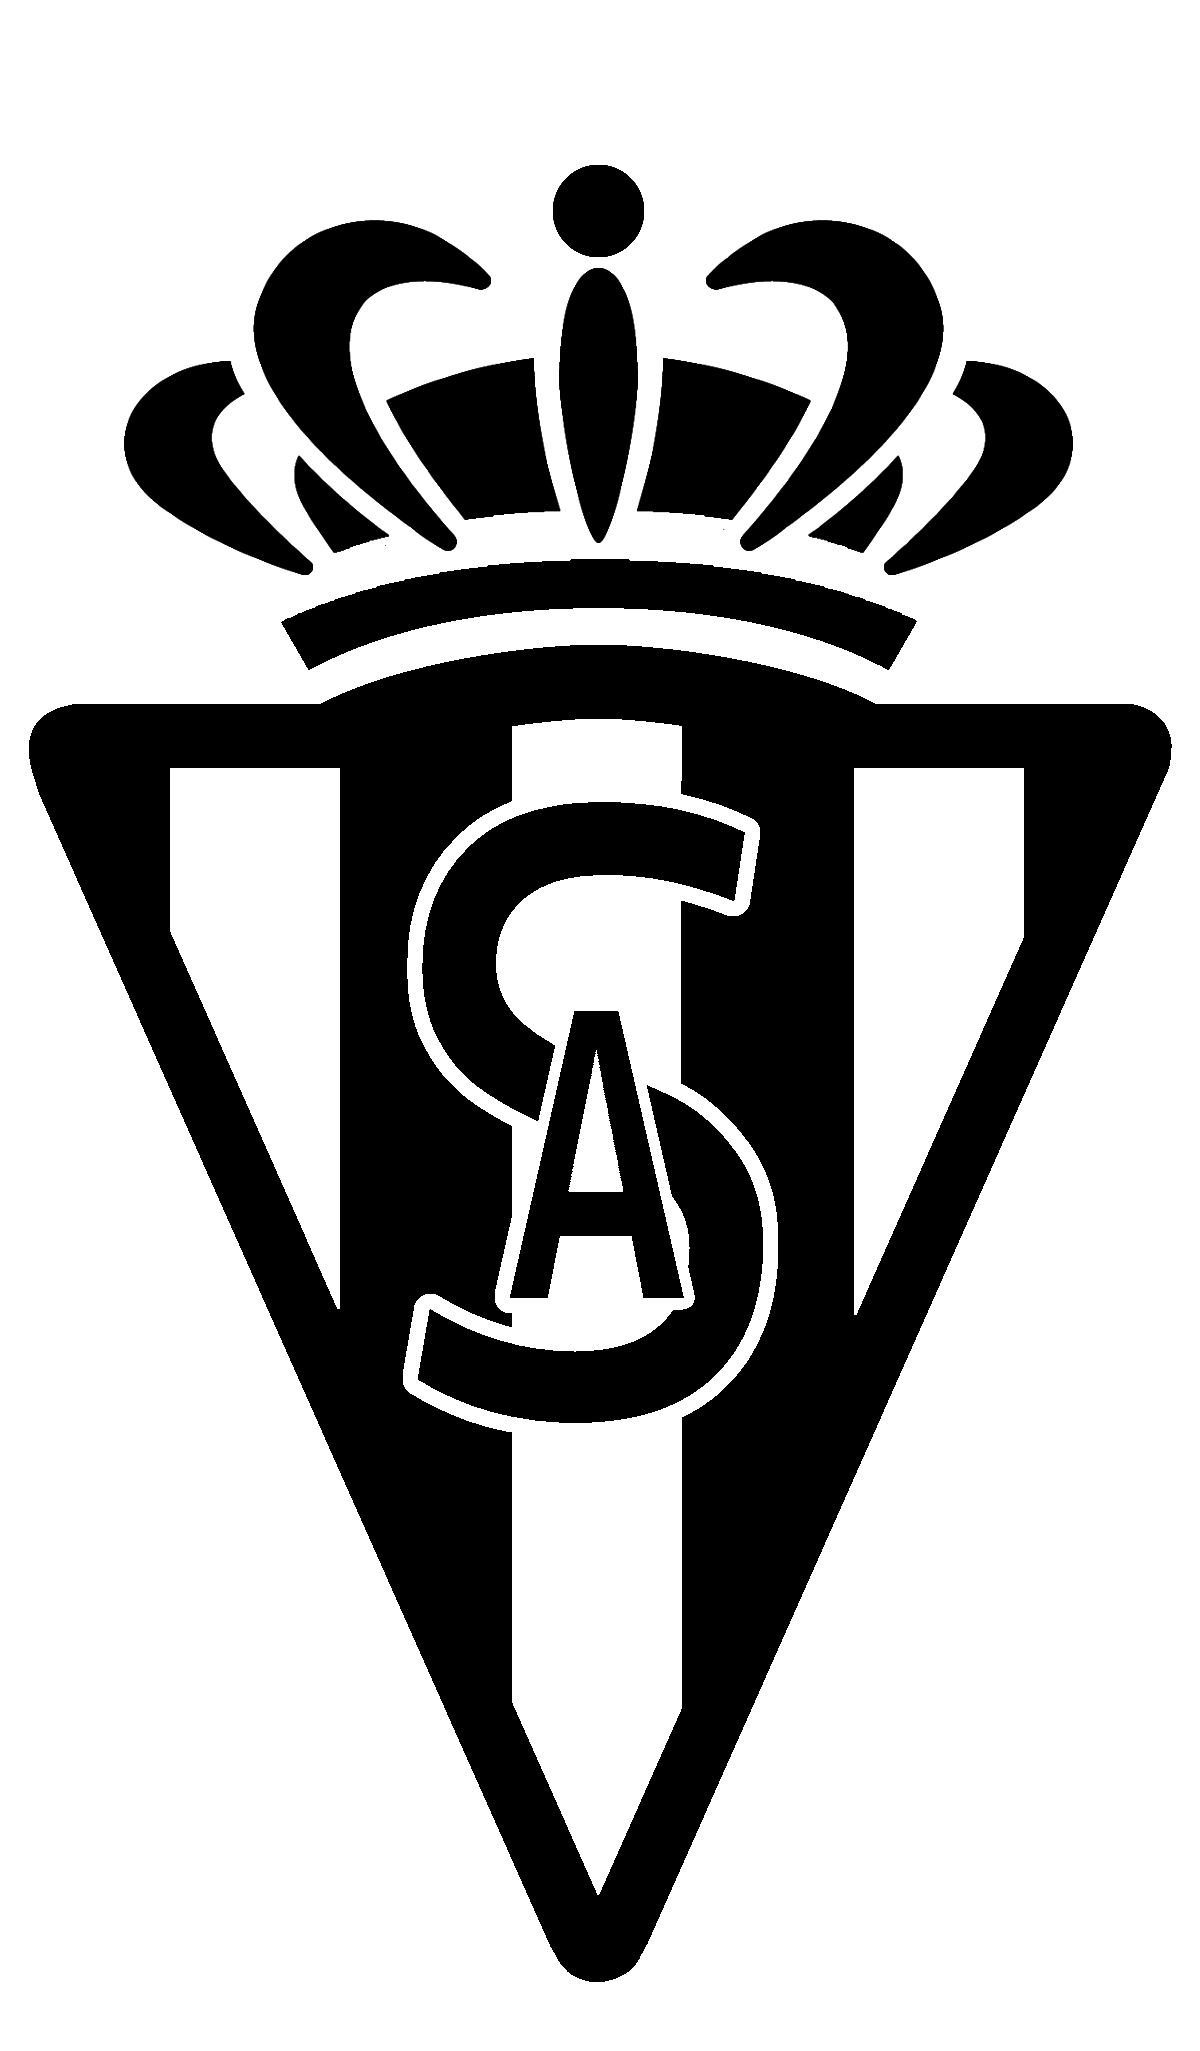
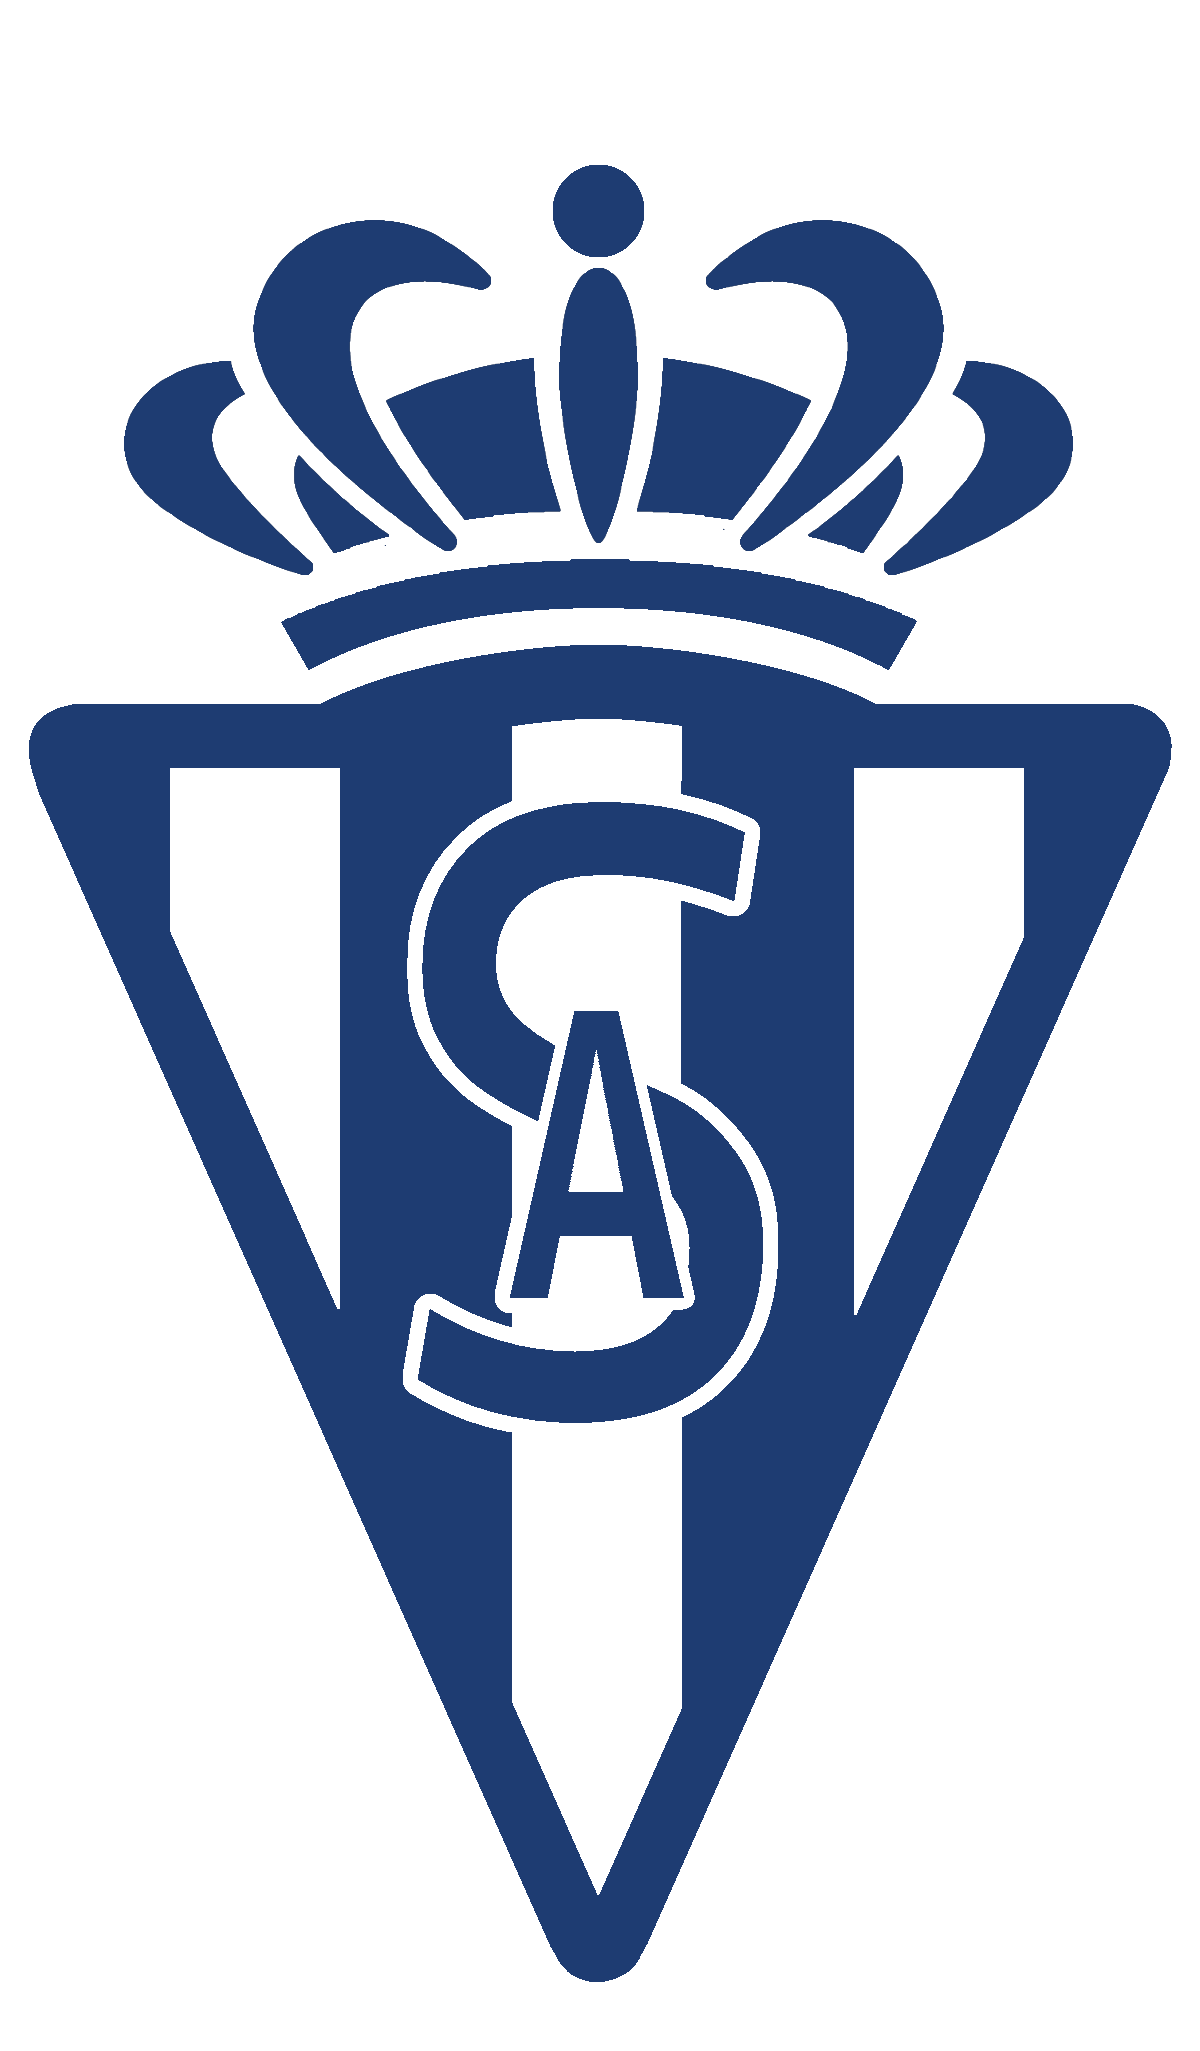
Orejas gilipollas (cambio las imagenes y añado el picker de nuevo)

diff --git a/src/presentation/screens/ClasificacionScreen.tsx b/src/presentation/screens/ClasificacionScreen.tsx
@@ -4,6 +4,7 @@ import axios from 'axios';
 import { parseDocument } from 'htmlparser2';
 import { findAll, getInnerHTML } from 'domutils';
 import { decode } from 'html-entities';
+import { Picker } from '@react-native-picker/picker'; // Importa Picker desde el nuevo paquete
 import { colors } from '../../types/theme'; // Importamos los colores
 
 interface TableData {
@@ -19,10 +20,11 @@ const cleanHTML = (html: string) => {
 
 const ClasificacionScreen = () => {
   const [tableData, setTableData] = useState<TableData | null>(null);
-  const { width } = useWindowDimensions(); // Obtiene las dimensiones de la ventana
-  const isPortrait = width < 600; // Define un umbral para considerar orientación vertical
   const [isLoading, setIsLoading] = useState(true);
   const [isError, setIsError] = useState(false);
+  const [selectedJornada, setSelectedJornada] = useState(30); // Valor inicial para la jornada
+  const { width } = useWindowDimensions(); // Obtiene las dimensiones de la ventana
+  const isPortrait = width < 600; // Define un umbral para considerar orientación vertical
 
   useEffect(() => {
     const fetchClasificacion = async () => {
@@ -35,7 +37,7 @@ const ClasificacionScreen = () => {
 
         // Obtener la clasificación
         const response = await axios.get(
-          'https://aranjuez.ffmadrid.es/nfg/NPcd/NFG_VisClasificacion?cod_primaria=1000128&codjornada=12&codcompeticion=1005401&codgrupo=1005402&codjornada=12&cod_agrupacion=1',
+          `https://aranjuez.ffmadrid.es/nfg/NPcd/NFG_VisClasificacion?cod_primaria=1000128&codjornada=${selectedJornada}&codcompeticion=1005401&codgrupo=1005402&cod_agrupacion=1`,
           {
             withCredentials: true,
           }
@@ -49,7 +51,7 @@ const ClasificacionScreen = () => {
 
         console.log('Total tables found:', tables.length); // Verificar la cantidad de tablas
 
-        if (tables.length > 0) {
+        if (tables.length > 0) { // Asegúrate de que hay al menos una tabla
           const table = tables[9]; // Cambia este índice si es necesario
           const headers = ['Pos.', 'Equipo', 'Puntos', 'J', 'G', 'E', 'P', 'F', 'C', 'Últimos'];
           const rows = findAll(elem => elem.name === 'tr', table.children);
@@ -65,12 +67,12 @@ const ClasificacionScreen = () => {
             if (filteredCells.length > 0) {
               return [String(index + 1), ...filteredCells]; // Añadir la posición como primer elemento
             }
-            return null;
-          }).filter(row => row !== null);
+            return null; // Si la fila está vacía, devolver null
+          }).filter(row => row !== null); // Filtrar filas nulas
 
           setTableData({
             headers: headers,
-            rows: rowData,
+            rows: rowData, // Mostrar todas las filas
           });
         } else {
           console.error('No se encontraron suficientes tablas en el documento.');
@@ -84,7 +86,7 @@ const ClasificacionScreen = () => {
     };
 
     fetchClasificacion();
-  }, []);
+  }, [selectedJornada]); // Añadir selectedJornada como dependencia
 
   // Filtra las columnas según la orientación
   const filteredHeaders = isPortrait ? tableData?.headers.slice(0, 4) : tableData?.headers;
@@ -92,15 +94,27 @@ const ClasificacionScreen = () => {
 
   return (
     <View style={styles.container}>
+      <View style={styles.pickerContainer}>
+        <Picker
+          selectedValue={selectedJornada}
+          style={styles.picker}
+          onValueChange={(itemValue) => setSelectedJornada(itemValue)}
+        >
+          {[...Array(30).keys()].map(i => (
+            <Picker.Item key={i+1} label={`Jornada ${i+1}`} value={i+1} />
+          ))}
+        </Picker>
+      </View>
+
       {isLoading ? (
-        <ActivityIndicator size="large" color={colors.primary} />
+        <ActivityIndicator size="large" color="#0000ff" />
       ) : isError ? (
         <Text style={styles.errorText}>Error al cargar los datos.</Text>
       ) : tableData ? (
         <ScrollView style={styles.scrollContainer} contentContainerStyle={styles.scrollContent}>
           <View style={styles.headerRow}>
             {filteredHeaders?.map((header, index) => (
-              <View key={index} style={[styles.headerCell, index === 0 ? styles.firstColumn : styles.otherColumn]}>
+              <View key={index} style={[styles.headerCell, index === 1 ? styles.secondColumn : styles.otherColumn]}>
                 <Text style={styles.headerText}>{header}</Text>
               </View>
             ))}
@@ -110,7 +124,8 @@ const ClasificacionScreen = () => {
               {row.map((cell, cellIndex) => (
                 <View key={cellIndex} style={[
                   styles.cell,
-                  cellIndex === 0 ? styles.firstColumn : styles.otherColumn
+                  rowIndex % 2 === 0 ? styles.evenRow : styles.oddRow,
+                  cellIndex === 1 ? styles.secondColumn : styles.firstColumn
                 ]}>
                   <Text style={styles.cellText}>{cell}</Text>
                 </View>
@@ -129,7 +144,18 @@ const styles = StyleSheet.create({
   container: {
     flex: 1,
     padding: 10,
-    backgroundColor: colors.primary, // Fondo azul para toda la pantalla
+    backgroundColor: '#f8f9fa', // Fondo claro
+  },
+  pickerContainer: {
+    marginBottom: 20,
+    backgroundColor: '#ffffff',
+    borderRadius: 5,
+    borderColor: '#ced4da',
+    borderWidth: 1,
+  },
+  picker: {
+    height: 50,
+    width: '100%',
   },
   scrollContainer: {
     flex: 1,
@@ -139,7 +165,7 @@ const styles = StyleSheet.create({
   },
   headerRow: {
     flexDirection: 'row',
-    backgroundColor: colors.primary, // Color azul del encabezado
+    backgroundColor: colors.primary, // Color de fondo del encabezado
     paddingVertical: 10,
     borderRadius: 5,
   },
@@ -149,31 +175,38 @@ const styles = StyleSheet.create({
     alignItems: 'center',
   },
   firstColumn: {
-    flex: 0, // Ajustar el tamaño al contenido
+    flex: 1, // Ajustar el tamaño al contenido
+  },
+  secondColumn: {
+    flex: 4, // Ajustar el tamaño al contenido
   },
   otherColumn: {
     flex: 1, // Tomar el espacio restante
   },
   headerText: {
-    color: colors.white, // Texto blanco en el encabezado
+    color: '#ffffff', // Texto blanco
     fontWeight: 'bold',
   },
   row: {
     flexDirection: 'row',
     marginVertical: 5,
     borderRadius: 5,
-    backgroundColor: colors.white, // Fondo blanco para las filas
   },
   cell: {
     flex: 1,
     padding: 10,
     borderWidth: 1,
-    borderColor: '#dee2e6',
+    borderColor: '#dee2e6', // Bordes suaves
     alignItems: 'center',
   },
+  evenRow: {
+    backgroundColor: '#ffffff', // Color de fondo para filas pares
+  },
+  oddRow: {
+    backgroundColor: '#f1f3f5', // Color de fondo para filas impares
+  },
   cellText: {
-    color: colors.primary, // Texto azul para las filas
-    fontWeight: 'bold', // Texto en negrita
+    color: '#212529', // Texto oscuro
   },
   errorText: {
     color: '#dc3545', // Texto rojo para errores

diff --git a/src/presentation/screens/HomeScreen.tsx b/src/presentation/screens/HomeScreen.tsx
@@ -1,6 +1,5 @@
 import React from 'react';
 import { View, Image, StyleSheet, Text, TouchableOpacity } from 'react-native';
-import LinearGradient from 'react-native-linear-gradient'; // Reemplazo de expo-linear-gradient
 import { HomeScreenNavigationProp } from '../../types/navigation';
 import { colors } from '../../types/theme'; // Importamos los colores
 
@@ -70,22 +69,24 @@ const styles = StyleSheet.create({
   },
   menu: {
     marginTop: 20,
-    width: '80%',
+    width: '60%',
   },
   button: {
-    backgroundColor: colors.primary, // Fondo azul
+    backgroundColor: colors.white, // Fondo azul
+    borderColor: colors.primary,
+    borderWidth: 1.4,
     padding: 15,
-    borderRadius: 30,
+    borderRadius: 10,
     marginVertical: 10,
     alignItems: 'center',
-    shadowColor: '#000',
+    shadowColor: '#fff',
     shadowOffset: { width: 0, height: 2 },
-    shadowOpacity: 0.3,
+    shadowOpacity: 0.2,
     shadowRadius: 5,
     elevation: 5,
   },
   buttonText: {
-    color: colors.white, // Texto en blanco
+    color: colors.primary, // Texto en blanco
     fontSize: 18,
     fontWeight: 'bold',
     textTransform: 'uppercase',
